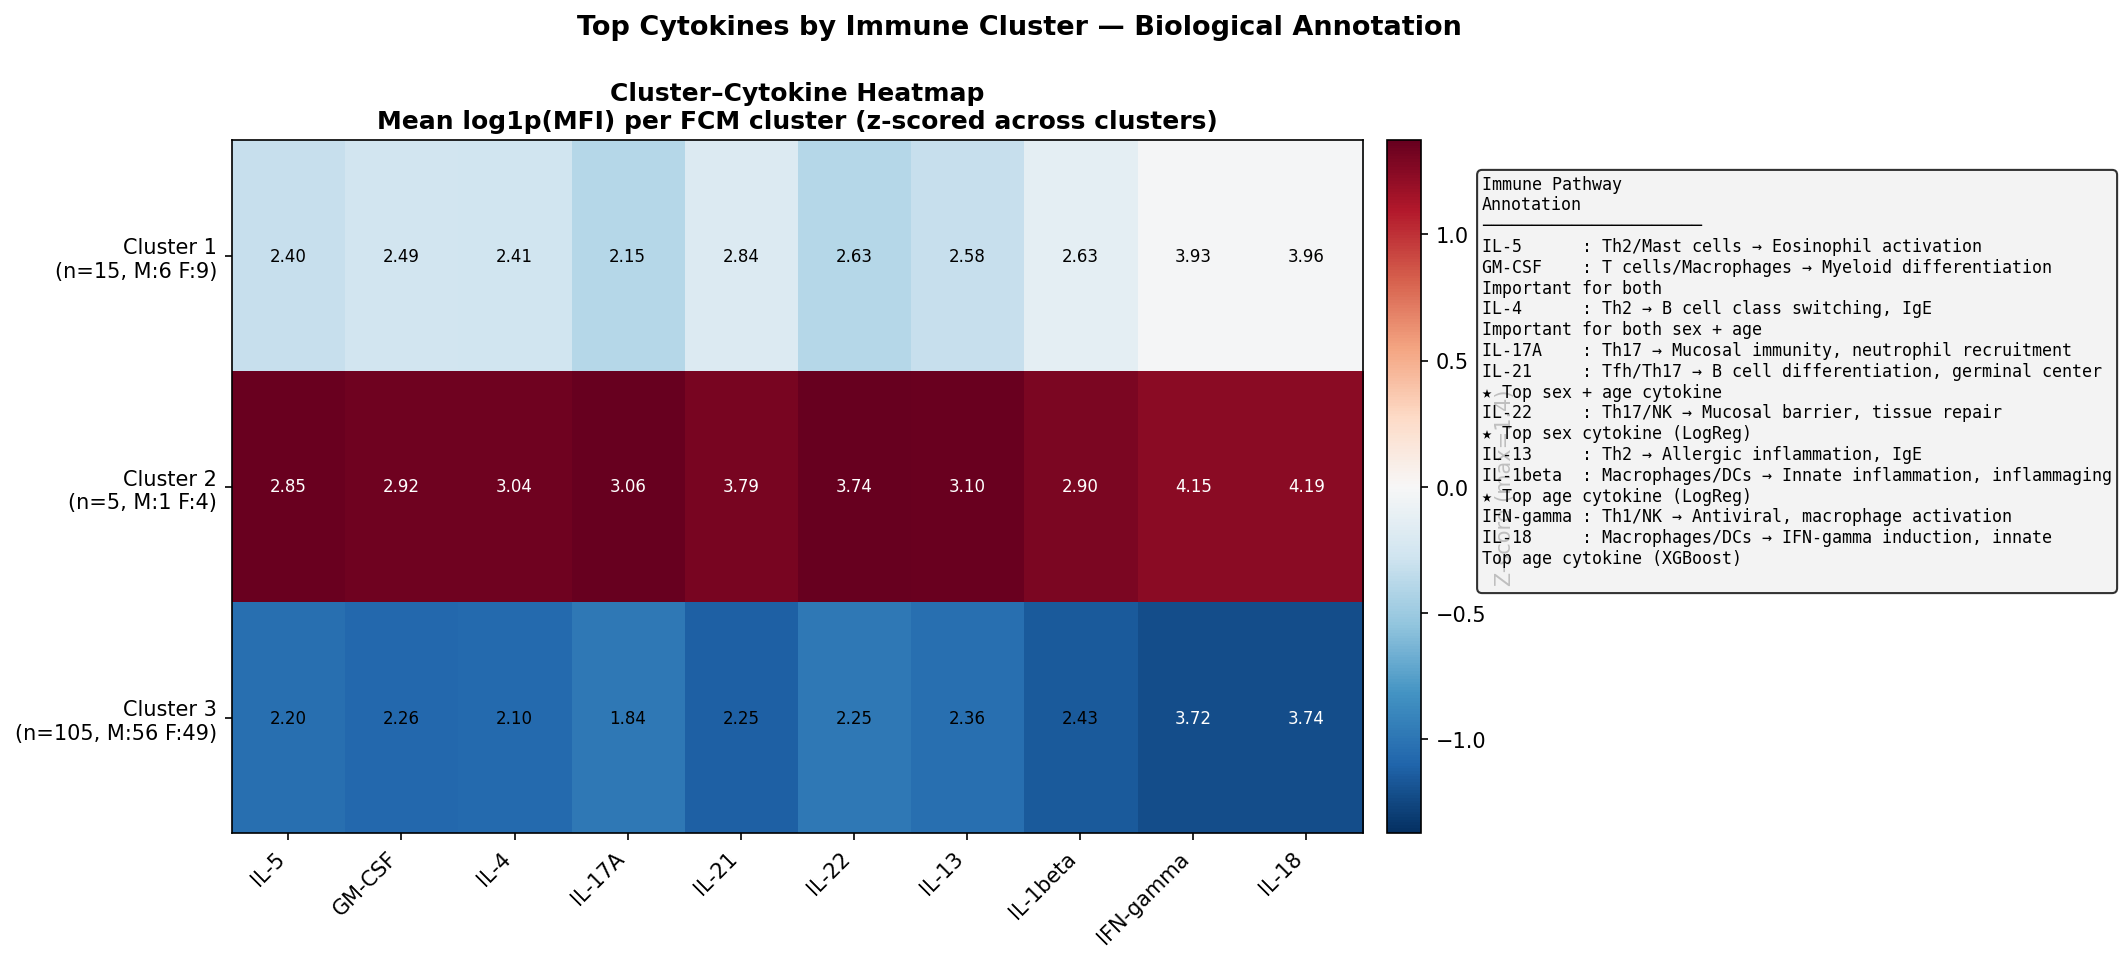
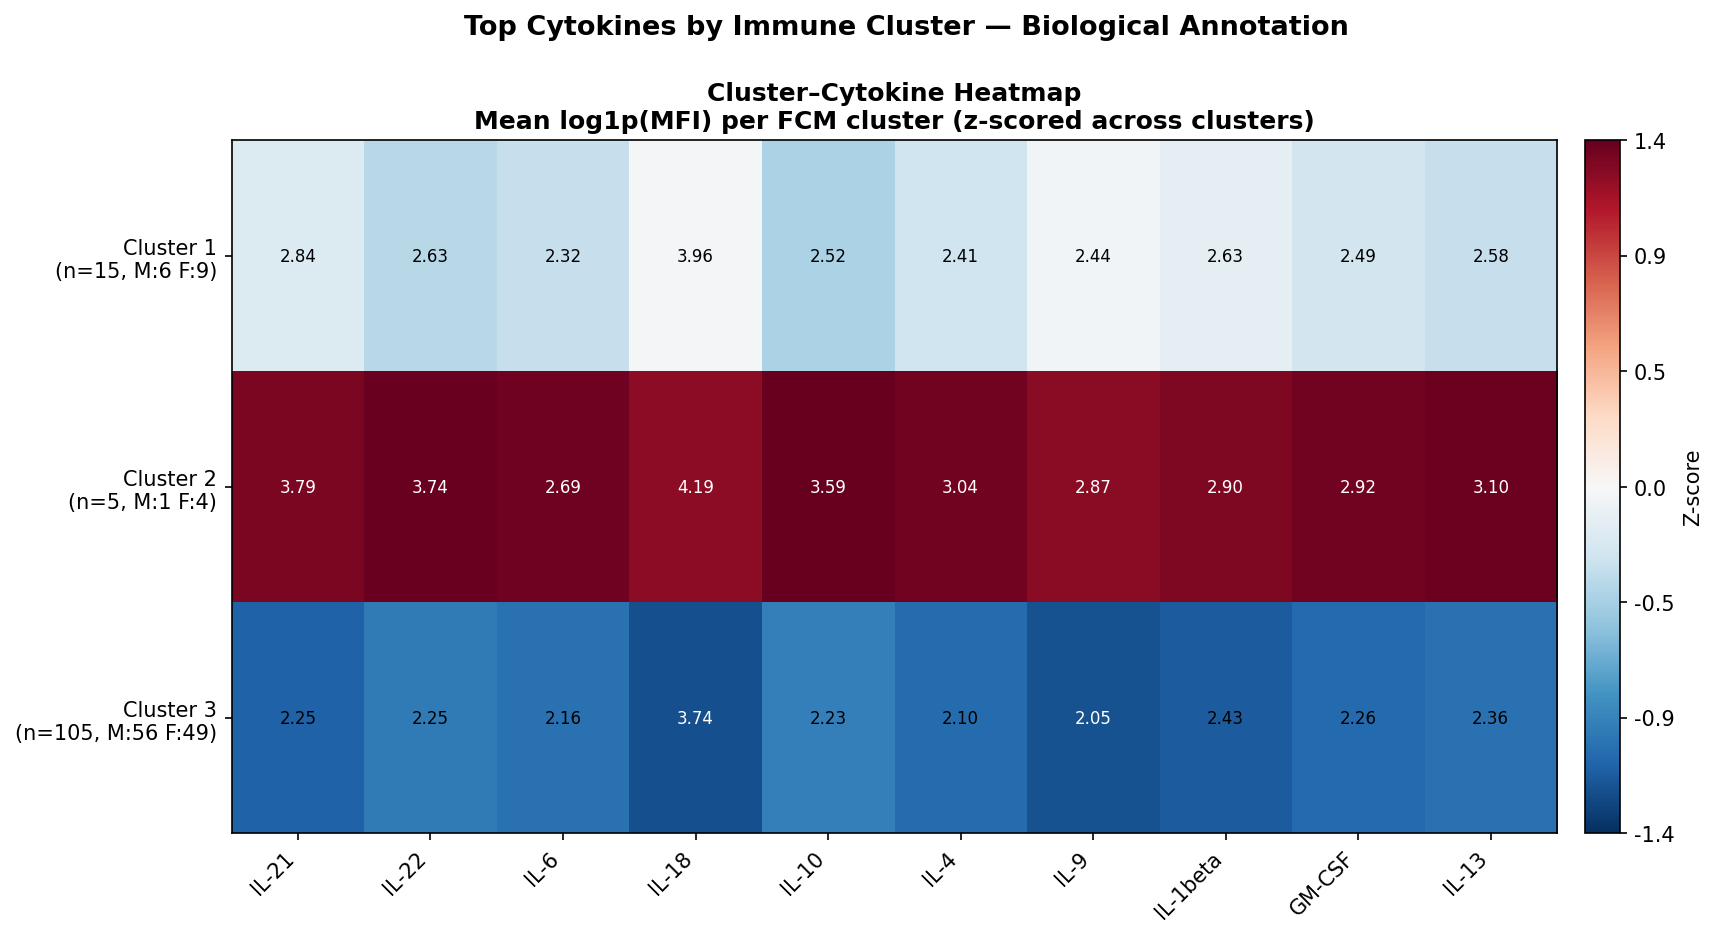
feautre-importance

diff --git a/bio-interpretation/bio.py b/bio-interpretation/bio.py
@@ -17,7 +17,7 @@ BASE_DIR   = Path(__file__).resolve().parent.parent
 DATA_DIR   = BASE_DIR / "Data"
 PCA_DIR    = BASE_DIR / "PCA+KNN-Emma" / "Outputs" / "cytokines_only"
 OUTPUT_DIR = BASE_DIR / "bio-interpretation" / "outputs" / "figures"
-BIO_DIR = BASE_DIR / "bio-interpretation" / "outputs"
+BIO_DIR    = BASE_DIR / "bio-interpretation" / "outputs"
 BIO_DIR.mkdir(parents=True, exist_ok=True)
 OUTPUT_DIR.mkdir(parents=True, exist_ok=True)
 
@@ -36,11 +36,13 @@ X_raw = df[CYTO_COLS].values.astype(float)
 X_log = np.log1p(X_raw)
 y     = (df["SEXC"] == "Male").astype(int).values
 
-# Top cytokines from your feature importance analysis
-TOP_CYTOKINES = [
-    "IL-5", "GM-CSF", "IL-4", "IL-17A", "IL-21",
-    "IL-22", "IL-13", "IL-1beta", "IFN-gamma", "IL-18"
-]
+feat_imp = pd.read_csv(BASE_DIR / "XGBoost" / "cytokine-only" / 
+                        "feature_importance_summary" / 
+                        "feature_importance_comparison.csv")
+
+# Top 10 by combined sex + age importance
+TOP_CYTOKINES = feat_imp.nlargest(10, "Combined")["Feature"].tolist()
+print(f"Top cytokines (combined): {TOP_CYTOKINES}")
 
 # Immune pathway annotation per cytokine
 PATHWAY_ANNOTATION = {
@@ -68,12 +70,11 @@ PATHWAY_ANNOTATION = {
 pd.DataFrame([
     {"Cytokine": cyto, "Pathway": pathway}
     for cyto, pathway in PATHWAY_ANNOTATION.items()
-]).to_csv(BIO_DIR / "cytokine_pathway_annotation.png", index=False)
+]).to_csv(BIO_DIR / "cytokine_pathway_annotation.csv", index=False)
 print(f"✓ Saved: cytokine_pathway_annotation.csv → {BIO_DIR}")
 
 # ============================================================================
 # SOFT CLUSTER ASSIGNMENTS
-# — Load FCM hard labels from saved outputs
 # ============================================================================
 try:
     import skfuzzy as fuzz
@@ -83,14 +84,13 @@ except ImportError:
                            "scikit-fuzzy", "--break-system-packages", "-q"])
     import skfuzzy as fuzz
 
-# Re-run FCM at k=3 on global log1p PCA space to get cluster labels
 X_global_mean   = X_log.mean(axis=0)
 X_global_std    = X_log.std(axis=0);  X_global_std[X_global_std == 0] = 1
 X_global_scaled = (X_log - X_global_mean) / X_global_std
 X_centered      = X_global_scaled - X_global_scaled.mean(axis=0)
 X_centered      = np.nan_to_num(X_centered, nan=0.0, posinf=0.0, neginf=0.0)
 _, S, Vt        = np.linalg.svd(X_centered, full_matrices=False)
-X_global_pca    = X_centered @ Vt[:2].T   # top 2 PCs
+X_global_pca    = X_centered @ Vt[:2].T
 
 cntr, u, _, _, _, _, fpc = fuzz.cluster.cmeans(
     X_global_pca.T, c=3, m=2.0,
@@ -101,19 +101,17 @@ hard_labels = np.argmax(u, axis=0)
 print(f"FCM k=3 | FPC={fpc:.4f}")
 for c in range(3):
     mask = hard_labels == c
-    n_older = (df["AGEGR1C"].values[mask] != "18-29").sum()
     print(f"  Cluster {c+1}: n={mask.sum()}  "
           f"Male={y[mask].sum()}  Female={(y[mask]==0).sum()}")
 
 # ============================================================================
 # BUILD HEATMAP DATA
-# mean log1p MFI per cluster for top cytokines
 # ============================================================================
 top_idx  = [CYTO_COLS.index(c) for c in TOP_CYTOKINES]
 X_top    = X_log[:, top_idx]
 
-n_clusters   = 3
-heatmap_vals = np.zeros((n_clusters, len(TOP_CYTOKINES)))
+n_clusters     = 3
+heatmap_vals   = np.zeros((n_clusters, len(TOP_CYTOKINES)))
 cluster_labels = []
 
 for c in range(n_clusters):
@@ -125,19 +123,18 @@ for c in range(n_clusters):
         f"Cluster {c+1}\n(n={mask.sum()}, M:{n_male} F:{n_female})"
     )
 
-# Z-score across clusters per cytokine for better contrast
+# Z-score across clusters per cytokine
 heatmap_z = (heatmap_vals - heatmap_vals.mean(axis=0)) / \
             (heatmap_vals.std(axis=0) + 1e-8)
+
+z_max = np.abs(heatmap_z).max()
+print(f"Z-score range: {heatmap_z.min():.2f} to {heatmap_z.max():.2f}")
 
 # ============================================================================
 # VISUALIZATION
 # ============================================================================
-fig = plt.figure(figsize=(14, 6))
-gs  = gridspec.GridSpec(1, 2, width_ratios=[3, 1], wspace=0.05)
-
-# Main heatmap
-ax_main = fig.add_subplot(gs[0])
-z_max = np.abs(heatmap_z).max()
+fig = plt.figure(figsize=(12, 6))
+ax_main = fig.add_subplot(111)
 im = ax_main.imshow(heatmap_z, cmap="RdBu_r", aspect="auto",
                     vmin=-z_max, vmax=z_max)
 
@@ -151,28 +148,16 @@ ax_main.set_title(
     fontsize=12, fontweight="bold"
 )
 
-# Annotate cells with mean MFI values
 for i in range(n_clusters):
     for j in range(len(TOP_CYTOKINES)):
         ax_main.text(j, i, f"{heatmap_vals[i, j]:.2f}",
                      ha="center", va="center", fontsize=8,
                      color="white" if abs(heatmap_z[i, j]) > 1.2 else "black")
 
-plt.colorbar(im, ax=ax_main, label=f"Z-score (max={z_max:.1f})",
-             fraction=0.03, pad=0.02)
-
-# Pathway annotation panel
-ax_ann = fig.add_subplot(gs[1])
-ax_ann.axis("off")
-
-pathway_text = "Immune Pathway\nAnnotation\n" + "─" * 22 + "\n"
-for cyto in TOP_CYTOKINES:
-    pathway_text += f"{cyto:<10}: {PATHWAY_ANNOTATION[cyto]}\n"
-
-ax_ann.text(0.05, 0.95, pathway_text,
-            transform=ax_ann.transAxes,
-            fontsize=8, va="top", fontfamily="monospace",
-            bbox=dict(boxstyle="round", facecolor="#f0f0f0", alpha=0.8))
+cbar = plt.colorbar(im, ax=ax_main, label="Z-score",
+                    fraction=0.03, pad=0.02)
+cbar.set_ticks(np.linspace(-z_max, z_max, 7))
+cbar.set_ticklabels([f"{v:.1f}" for v in np.linspace(-z_max, z_max, 7)])
 
 plt.suptitle(
     "Top Cytokines by Immune Cluster — Biological Annotation",
